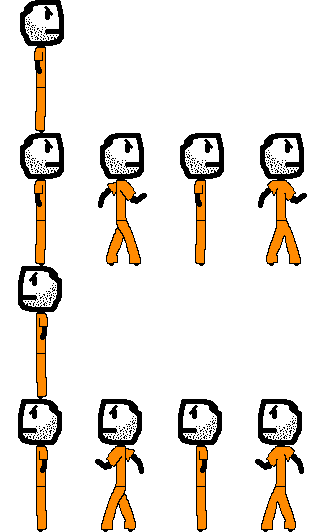
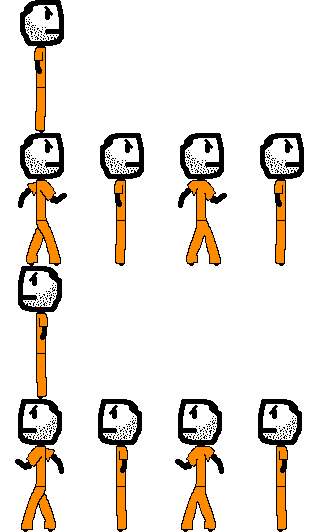
Updated the prisonerOrange.png to start the moving animations with the stepping, not the standing frame. Added changing the direction of the player in PlayerOneState. Changed the queueAnimationIfNotQueued method in Sprite because it was broken.

diff --git a/src/state/object/PlayerOneState.java b/src/state/object/PlayerOneState.java
@@ -22,6 +22,8 @@ public class PlayerOneState extends ObjectState{
 	private double acceleration;
 	private double jumpAcceleration;
 	private boolean onFloor;
+	private boolean movingRight = false;
+	private boolean movingLeft = false;
 	
 	//Accessors / Modifiers
 	/**
@@ -73,6 +75,7 @@ public class PlayerOneState extends ObjectState{
 	 */
 	@Override
 	public void update() {
+		
 		//Get reference to input manager
 		InputManager input = (InputManager)Engine.currentInstance.getManager(Engine.Managers.INPUTMANAGER);
 		
@@ -98,12 +101,15 @@ public class PlayerOneState extends ObjectState{
 			}
 		}
 		
-		
 		//If left or right is pressed
 		if(input.isKeyPressed('a')){
+			attachedTo.getSprite().update();
+			attachedTo.getSprite().queueAnimationIfNotQueued(2, true);
 			translationVector.setComponent(0, -acceleration);
 		}
 		if(input.isKeyPressed('d')){
+			attachedTo.getSprite().update();
+			attachedTo.getSprite().queueAnimationIfNotQueued(0, true);
 			translationVector.setComponent(0, acceleration);
 		}
 		

diff --git a/src/sprites/Sprite.java b/src/sprites/Sprite.java
@@ -119,9 +119,16 @@ public class Sprite {
 	 * @param repeat Should this animation repeat so long as no others are queued
 	 */
 	public void queueAnimationIfNotQueued(int row, boolean repeat){
-		AnimationInstruction instruction = new AnimationInstruction(row, repeat);
-		if(!animationQueue.contains(instruction) && playing && currentRow != row){
-			queueAnimation(instruction);
+		
+		//CHANGED DUE TO THE FACT THAT IT WAS TRYING TO SEE IF A COMPLETELY NEW INSTRUCTION WAS IN THE QUEUE
+		boolean inQueue = false;
+		for (AnimationInstruction inst : animationQueue) {
+			if (inst.animationRowIndex == row && inst.repeatAnimation == repeat) {
+				inQueue = true;
+			}
+		}
+		if(!inQueue && playing && currentRow != row){
+			queueAnimation(new AnimationInstruction(row, repeat));
 		}
 	}
 	
